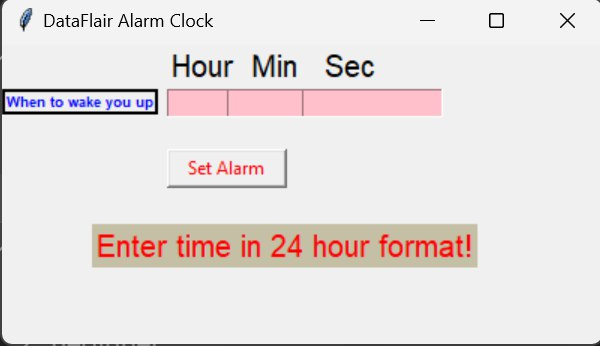
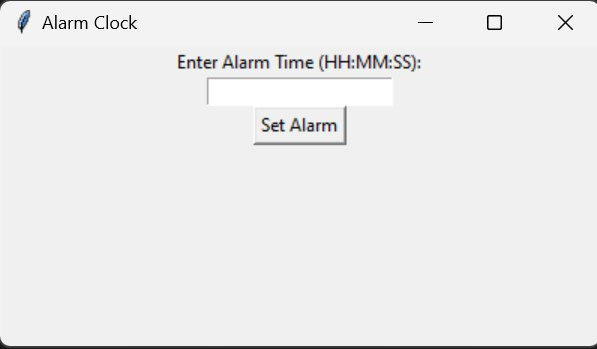
Explained What the project is and its working.

diff --git a/Projects/Alarm Clock/clock.py b/Projects/Alarm Clock/clock.py
@@ -1,47 +1,24 @@
-#Importing all the necessary libraries to form the alarm clock:
+#necessary modules
 from tkinter import *
-import datetime
-import time
-import winsound
+from time import strftime
 
+# main application window
+root = Tk()
+root.title("Clock")
+root.geometry("500x200")
 
+# Function to update the time display
+def time():
+    current_time = strftime("%H:%M:%S %p")  # Get the current time in 'hh:mm:ss AM/PM' format
+    label.config(text=current_time)  # Update the text of the Label widget
+    label.after(1000, time)  # Schedule the time function to be called again after 1000 milliseconds (1 second)
 
-def alarm(set_alarm_timer):
-    while True:
-        time.sleep(1)
-        current_time = datetime.datetime.now()
-        now = current_time.strftime("%H:%M:%S")
-        date = current_time.strftime("%d/%m/%Y")
-        print("The Set Date is:",date)
-        print(now)
-        if now == set_alarm_timer:
-            print("Time to Wake up")
-            winsound.PlaySound("sound.mp3",winsound.SND_ASYNC)
-            break
+# Label widget to display the time
+label = Label(root, font=("Courier New", 40), background="#C5B24B", foreground="black" ,justify="center")
+label.pack(anchor="center")
 
-def actual_time():
-    set_alarm_timer = f"{hour.get()}:{min.get()}:{sec.get()}"
-    alarm(set_alarm_timer)
+# Call function to display time
+time()
 
-clock = Tk()
-clock.title("DataFlair Alarm Clock")
-clock.geometry("400x200")
-time_format=Label(clock, text= "Enter time in 24 hour format!", fg="red",bg="#C5BFA6",font="Arial").place(x=60,y=120)
-addTime = Label(clock,text = "Hour  Min   Sec",font=60).place(x = 110)
-setYourAlarm = Label(clock,text = "When to wake you up",fg="blue",relief = "solid",font=("Helevetica",7,"bold")).place(x=0, y=30)
-
-# The Variables we require to set the alarm(initialization):
-hour = StringVar()
-min = StringVar()
-sec = StringVar()
-
-#Time required to set the alarm clock:
-hourTime= Entry(clock,textvariable = hour,bg = "pink",width = 15).place(x=110,y=30)
-minTime= Entry(clock,textvariable = min,bg = "pink",width = 15).place(x=150,y=30)
-secTime = Entry(clock,textvariable = sec,bg = "pink",width = 15).place(x=200,y=30)
-
-#To take the time input by user:
-submit = Button(clock,text = "Set Alarm",fg="red",width = 10,command = actual_time).place(x =110,y=70)
-
-clock.mainloop()
-#Execution of the window.
+# main event loop
+root.mainloop()

diff --git a/Projects/Alarm Clock/alarm_clock.py b/Projects/Alarm Clock/alarm_clock.py
@@ -1,0 +1,48 @@
+# necessary modules
+from tkinter import *
+from tkinter import messagebox
+from threading import Timer
+import datetime
+
+# Function to set the alarm
+def set_alarm():
+    alarm_time = alarm_entry.get()  # Get the alarm time from the entry field
+    try:
+        # Parse the entered time in 'HH:MM:SS' format
+        alarm_time_parts = alarm_time.split(':')
+        alarm_datetime = datetime.time(int(alarm_time_parts[0]), int(alarm_time_parts[1]), int(alarm_time_parts[2]))
+        current_time = datetime.datetime.now().time()
+
+        # Calculate the time difference between current time and alarm time
+        time_difference = datetime.datetime.combine(datetime.date.today(), alarm_datetime) - datetime.datetime.combine(datetime.date.today(), current_time)
+
+        # Display a message with the remaining time until the alarm goes off
+        messagebox.showinfo("Alarm Set", f"Alarm will go off in {time_difference}")
+
+        # Schedule the alarm to go off after the calculated time difference
+        timer = Timer(time_difference.total_seconds(), trigger_alarm)
+        timer.start()
+    except (ValueError, IndexError):
+        messagebox.showerror("Invalid Input", "Please enter the alarm time in 'HH:MM:SS' format.")
+
+# Function to trigger the alarm
+def trigger_alarm():
+    messagebox.showinfo("Alarm", "Wake up!")
+
+# main application window
+root = Tk()
+root.title("Alarm Clock")
+root.geometry("400x200")
+
+#  widgets
+label = Label(root, text="Enter Alarm Time (HH:MM:SS):")
+label.pack()
+
+alarm_entry = Entry(root)
+alarm_entry.pack()
+
+set_button = Button(root, text="Set Alarm", command=set_alarm)
+set_button.pack()
+
+# main event loop
+root.mainloop()

diff --git a/Projects/Alarm Clock/Readme.md b/Projects/Alarm Clock/Readme.md
@@ -1,18 +1,21 @@
-# Alarm-Clock-In-Python
+# Alarm-Clock-In-Python 
 
-<h1>Requirements</h1>
+ <h1>Requirements</h1 >
 
->[Python](https://www.python.org/) <br>
-[Visual Studio Code](https://code.visualstudio.com/) or any other code editor <br>
-
+- Python 3.x installed on your system.
+- Tkinter library (usually comes pre-installed with  Python).
+- The code provided in alarm_clock.py and clock.py f iles.
+<br >
 <h1>How To Use</h1>
 
-- Please Ensure That You Have Installed Python On Your Device.
-
-- Now Open Your Terminal And Type `python3 clock.py` To Start The Alarm CLock Application On Your PC.
+- Navigate to the directory where you saved the files.
+- Run the clock.py file by executing the command: python clock.py
+- The clock.py window will be displaying the current time.
+- The alarm_clock.py window will be used to set the alarm.
+- Click the "Set Alarm" button in the alarm_clock.py window.
+- When the alarm time is reached, a notification will pop up (or a sound will play if you add it to the code).
 
 <h1>Output</h1>
+<img width="450" height="190" alt="output" src="Clock.jpg">
+<img width="450" height="190" alt="output" src="Alarm.jpg">
 
-<p align="center">
-<img width="450" height="190" alt="output" src="Alarm.png">
-</p>
